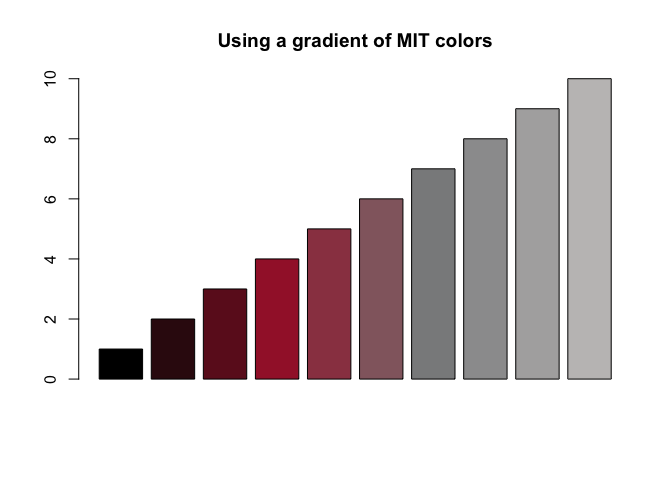
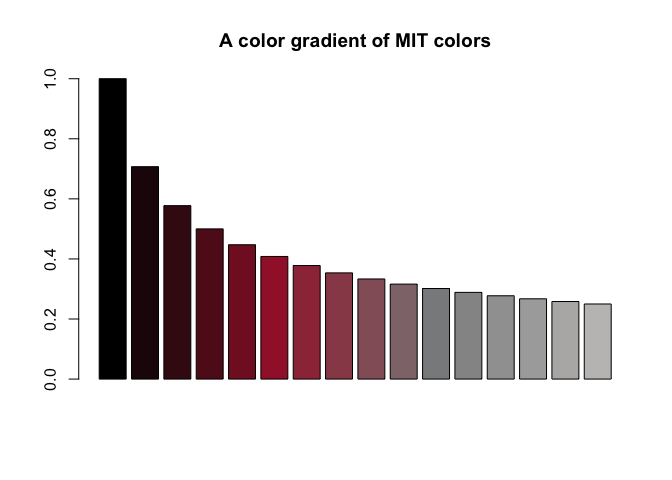
revise README

diff --git a/README.md b/README.md
@@ -17,11 +17,18 @@ The colors of your university.
 
 ## Objectives
 
+<!-- Vision / Mission: -->
+
+The R package **unicol** contains the colors and color palettes of
+various universities. We collect and provide a diverse range of color
+palettes for creating scientific visualizations.
+
 <!-- Goal: -->
 
-The R package **unicol** contains colors and color palettes for various
-universities. Our goal is to collect and provide as many palettes as
-possible for creating scientific visualizations.
+Our primary goal is to make it simple to create beautiful visualizations
+that are in accordance with institutional style guides. Assuming that
+you have some R code for creating an image, the **unicol** allows you to
+directly use the color palette of your institution.
 
 <!-- Course coordinates: -->
 
@@ -31,7 +38,7 @@ following course:
 - **Open Source Software Development in R** (ADILT applications,
   PSY-18040), at **[University of
   Konstanz](https://www.uni-konstanz.de/en/)**  
-- Spring 2023: **Tuesdays**, **13:30-15:00**; in **C426**
+- Spring/Summer 2023: **Tuesdays**, **13:30-15:00**; in **C426**
 - Taught by **[Hansjörg Neth](https://neth.de/)** (<h.neth@uni.kn>,
   [SPDS](https://www.spds.uni-konstanz.de/), [University of
   Konstanz](https://www.uni-konstanz.de/en/))
@@ -104,24 +111,25 @@ Figure 1: A sample of 50 unicol palettes (containing 246 colors).
 As the **unicol** palettes are provided as vectors of R colors, they can
 simply be used as the `col` argument of R graphics functions. For
 instance, we can use the MIT colors (of the [Massachusetts Institute of
-Technology](https://web.mit.edu/)) in a bar plot as follows:
+Technology](https://web.mit.edu/)) in a bar plot (with the `barplot()`
+function of the base R **graphics** package) as follows:
 
 ``` r
-barplot(height = 1:10, 
+barplot(height = 1:10,
         col = mit_pal, 
         main = "Using the MIT colors")
 ```
 
 <img src="man/figures/README-example-base-r-1-1.png" width="600px" style="display: block; margin: auto;" />
 
-To modify a color palette (e.g., by resizing or adding transparency), we
-can use the `usecol()` function of the
+To modify a color palette (e.g., by resizing the palette or adding
+transparency), we use the `usecol()` function of the
 **[unikn](https://CRAN.R-project.org/package=unikn)** package:
 
 ``` r
-barplot(height = 1:10, 
-        col = usecol(mit_pal, n = 10), 
-        main = "Using a gradient of MIT colors")
+barplot(height = 1/sqrt(1:16), 
+        col = usecol(mit_pal, n = 16), 
+        main = "A color gradient of MIT colors")
 ```
 
 <img src="man/figures/README-example-base-r-2-1.png" width="600px" style="display: block; margin: auto;" />
@@ -132,22 +140,26 @@ Here are some some additional examples how the color palettes from
 **unicol** can be used:
 
 ``` r
-seecol(yale_1, main = "The primary colors of Yale University")
+# Viewing a color palette:
+unikn::seecol(yale_1, main = "The primary colors of Yale University")
 ```
 
 <img src="man/figures/README-examples-unicol-1.png" width="600px" style="display: block; margin: auto;" />
 
 ``` r
-demopal(berkeley_1, type = 2, main = "The colors of Berkeley, University of California", seed = 3)
+# Demo plots:
+unikn::demopal(berkeley_1, type = 2, main = "The colors of Berkeley, University of California", seed = 3)
 ```
 
 <img src="man/figures/README-examples-unicol-2.png" width="600px" style="display: block; margin: auto;" />
 
 ``` r
-demopal(limerick_1, type = 3, main = "Using the colors of Limerick University")
+unikn::demopal(limerick_1, type = 3, main = "Using the colors of Limerick University")
 ```
 
 <img src="man/figures/README-examples-unicol-3.png" width="600px" style="display: block; margin: auto;" />
+
+## Adding color palettes
 
 <!-- +++ here now +++  -->
 <!-- unicol pkg logo and link: -->
